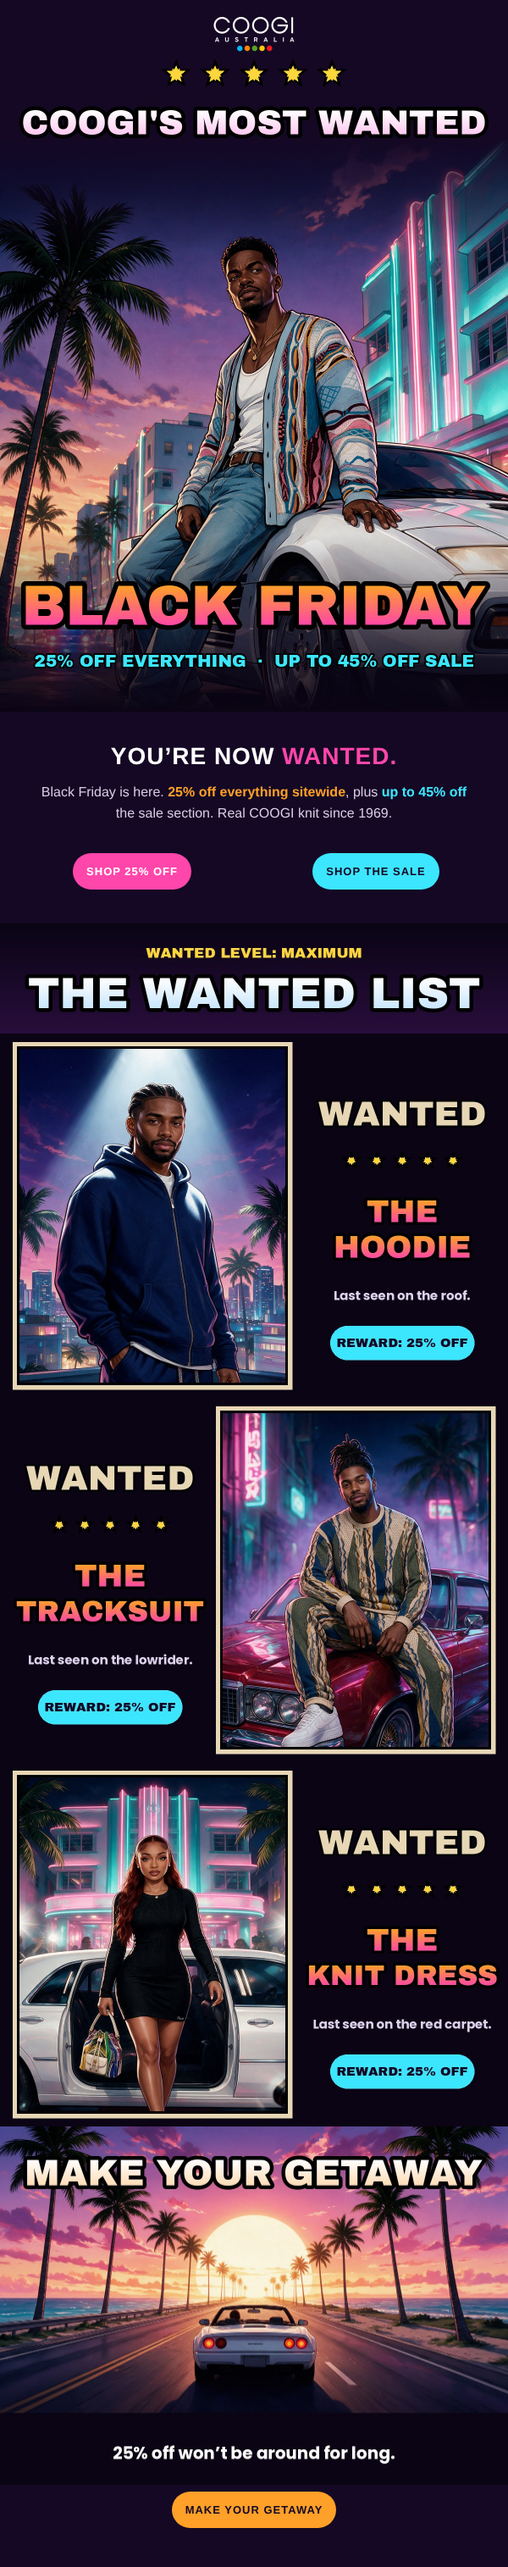
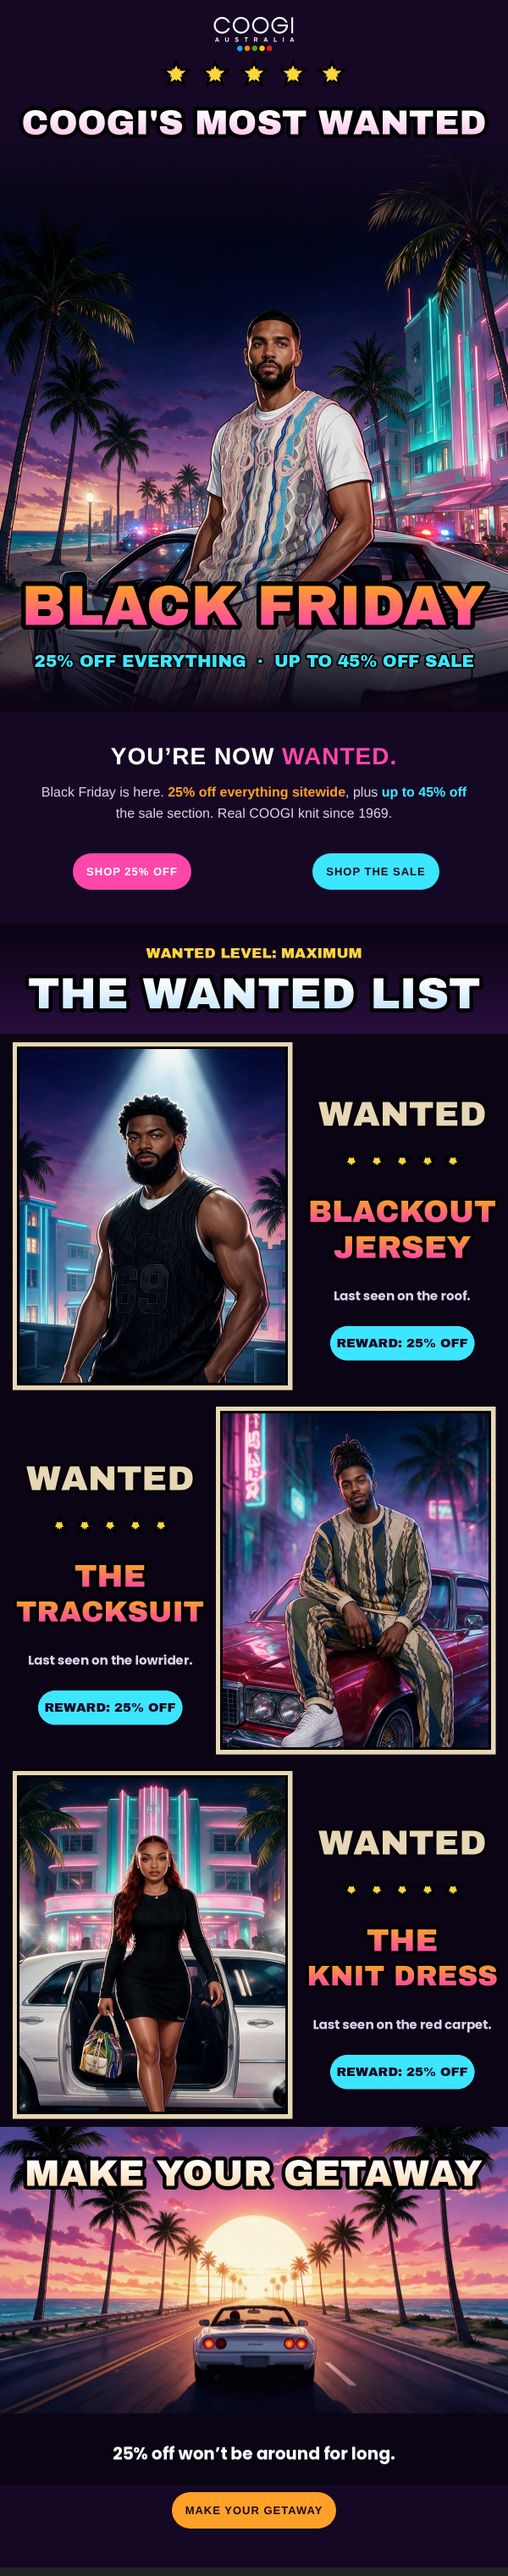
Most Wanted: Rosewater + Blackout jerseys
Claude-Session: https://claude.ai/code/session_01Q3QB3BFV8sxpPynxGTz8gE

diff --git a/email/vice-most-wanted/most_wanted_email.html b/email/vice-most-wanted/most_wanted_email.html
@@ -1,9 +1,9 @@
 <table role="presentation" width="100%" cellpadding="0" cellspacing="0" style="width:100%;max-width:600px;margin:0 auto;background:#140824;">
-<tr><td><a href="https://coogi.com/collections/all"><img src="https://raw.githubusercontent.com/ShaneClawAgent/coogi-ad-assets/main/email/vice-most-wanted/A1_hero.jpg" width="600" alt="COOGI's Most Wanted: Black Friday, 25% off everything, up to 45% off sale" style="display:block;width:100%;max-width:600px;height:auto;border:0;"></a></td></tr>
+<tr><td><a href="https://coogi.com/collections/basketball-jerseys"><img src="https://raw.githubusercontent.com/ShaneClawAgent/coogi-ad-assets/main/email/vice-most-wanted/A1_hero_v2.jpg" width="600" alt="COOGI's Most Wanted: the Rosewater Knit Jersey. Black Friday, 25% off everything" style="display:block;width:100%;max-width:600px;height:auto;border:0;"></a></td></tr>
 <tr><td bgcolor="#140824" align="center" style="padding:36px 40px 8px;font-family:Arial,Helvetica,sans-serif;color:#ffffff;"><div style="font-size:28px;font-weight:900;letter-spacing:1px;line-height:1.2;">YOU’RE NOW <span style="color:#FF46AA;">WANTED.</span></div><div style="font-size:16px;line-height:1.6;color:#d9cce6;padding-top:12px;">Black Friday is here. <b style="color:#FFA028;">25% off everything sitewide</b>, plus <b style="color:#3CE6FF;">up to 45% off</b> the sale section. Real COOGI knit since 1969.</div></td></tr>
 <tr><td bgcolor="#140824" style="padding:26px 12px 40px;"><table role="presentation" width="100%" cellpadding="0" cellspacing="0"><tr><td width="50%" align="center" style="padding:0 4px;"><table role="presentation" cellpadding="0" cellspacing="0" border="0" align="center"><tr><td bgcolor="#FF46AA" style="border-radius:40px;"><a href="https://coogi.com/collections/all" style="display:inline-block;padding:14px 16px;white-space:nowrap;font-family:Arial,Helvetica,sans-serif;font-size:13px;font-weight:bold;letter-spacing:1px;color:#ffffff;text-decoration:none;">SHOP 25% OFF</a></td></tr></table></td><td width="50%" align="center" style="padding:0 4px;"><table role="presentation" cellpadding="0" cellspacing="0" border="0" align="center"><tr><td bgcolor="#3CE6FF" style="border-radius:40px;"><a href="https://coogi.com/collections/sale" style="display:inline-block;padding:14px 16px;white-space:nowrap;font-family:Arial,Helvetica,sans-serif;font-size:13px;font-weight:bold;letter-spacing:1px;color:#140824;text-decoration:none;">SHOP THE SALE</a></td></tr></table></td></tr></table></td></tr>
 <tr><td><a href="https://coogi.com/collections/all"><img src="https://raw.githubusercontent.com/ShaneClawAgent/coogi-ad-assets/main/email/vice-most-wanted/A2_header.jpg" width="600" alt="The wanted list" style="display:block;width:100%;max-width:600px;height:auto;border:0;"></a></td></tr>
-<tr><td><a href="https://coogi.com/collections/hoodies-1"><img src="https://raw.githubusercontent.com/ShaneClawAgent/coogi-ad-assets/main/email/vice-most-wanted/A3_hoodie.jpg" width="600" alt="Wanted: the hoodie" style="display:block;width:100%;max-width:600px;height:auto;border:0;"></a></td></tr>
+<tr><td><a href="https://coogi.com/products/new-coogi-blackout-sweater-knit-basketball-jersey"><img src="https://raw.githubusercontent.com/ShaneClawAgent/coogi-ad-assets/main/email/vice-most-wanted/A3_blackout.jpg" width="600" alt="Wanted: the Blackout Knit Jersey" style="display:block;width:100%;max-width:600px;height:auto;border:0;"></a></td></tr>
 <tr><td><a href="https://coogi.com/collections/sportswear-joggers"><img src="https://raw.githubusercontent.com/ShaneClawAgent/coogi-ad-assets/main/email/vice-most-wanted/A4_tracksuit.jpg" width="600" alt="Wanted: the tracksuit" style="display:block;width:100%;max-width:600px;height:auto;border:0;"></a></td></tr>
 <tr><td><a href="https://coogi.com/collections/women"><img src="https://raw.githubusercontent.com/ShaneClawAgent/coogi-ad-assets/main/email/vice-most-wanted/A5_dress.jpg" width="600" alt="Wanted: the knit dress" style="display:block;width:100%;max-width:600px;height:auto;border:0;"></a></td></tr>
 <tr><td><a href="https://coogi.com/collections/all"><img src="https://raw.githubusercontent.com/ShaneClawAgent/coogi-ad-assets/main/email/vice-most-wanted/A6_getaway.jpg" width="600" alt="Make your getaway" style="display:block;width:100%;max-width:600px;height:auto;border:0;"></a></td></tr>
